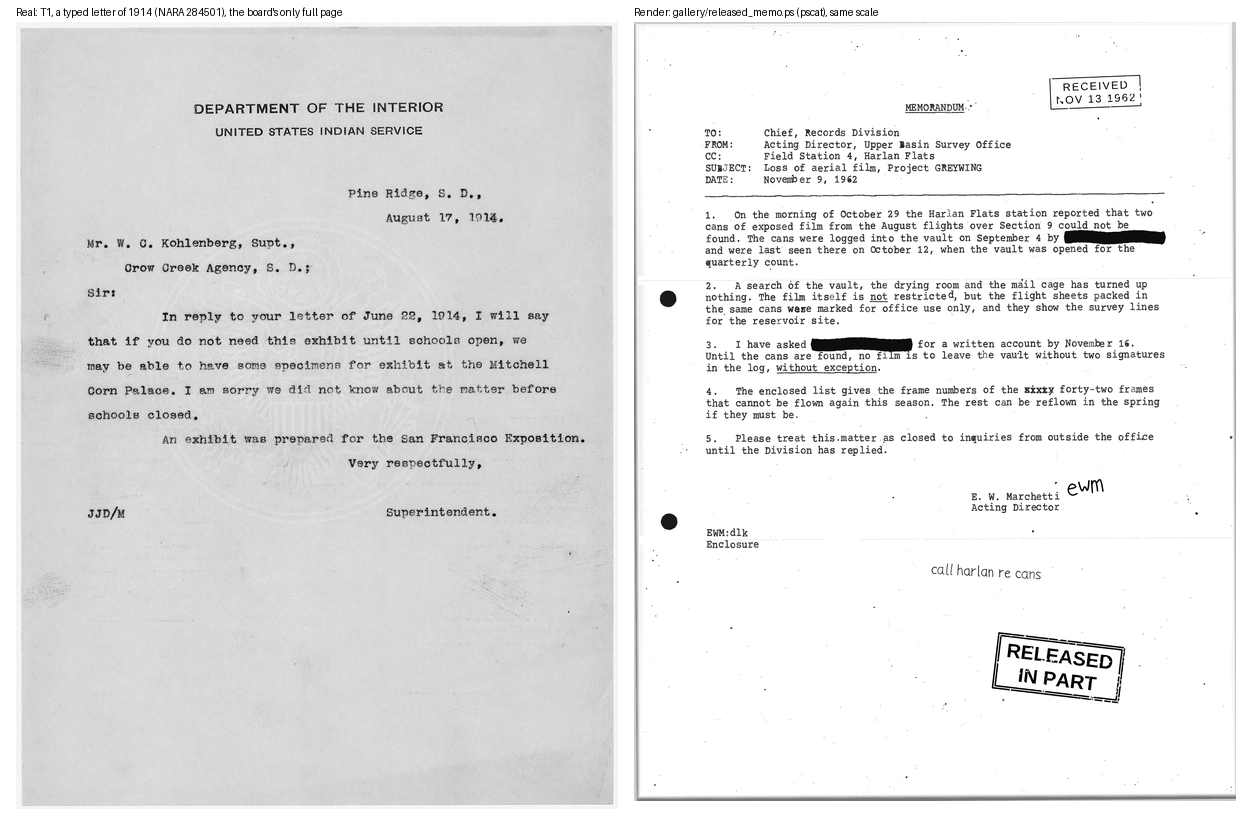
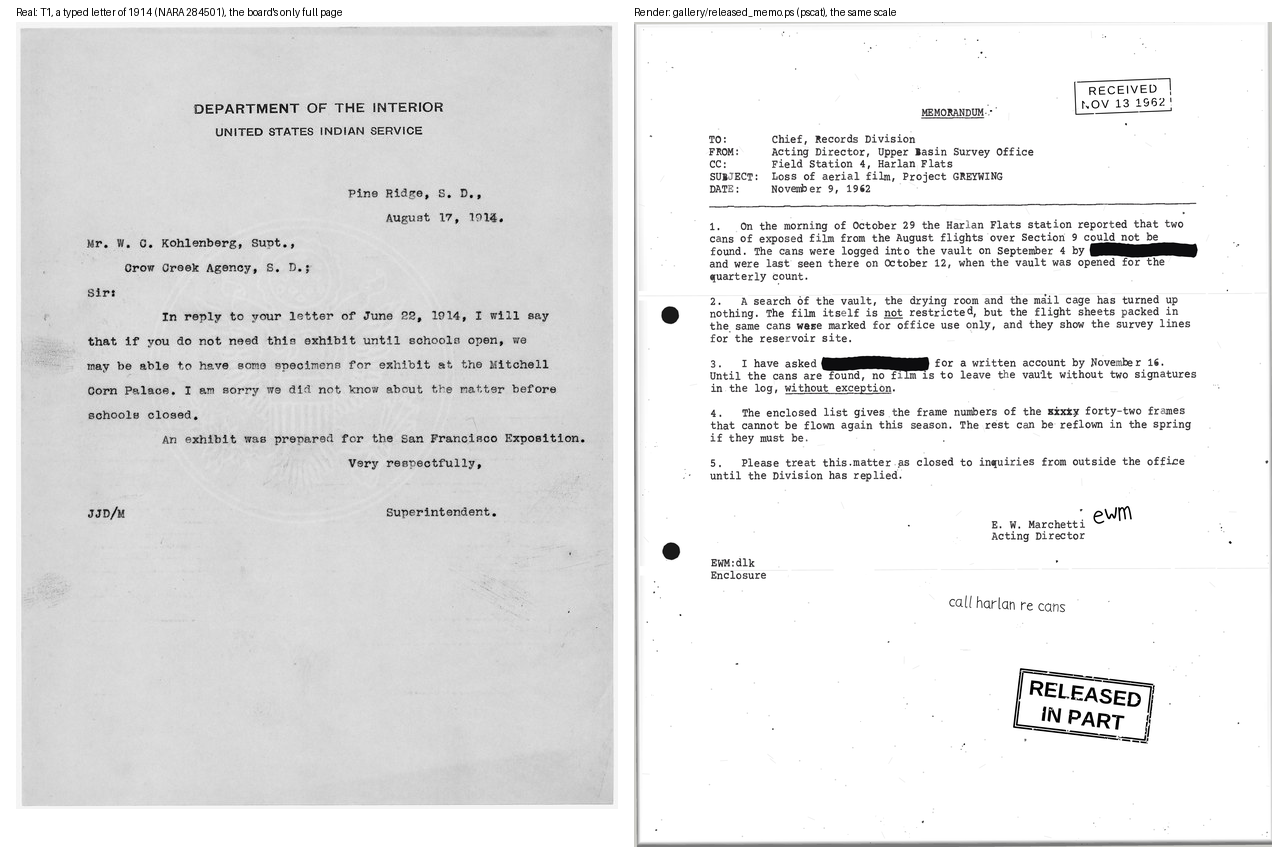
blind grid: one scale and one strip size for every tile, T1 at its own scale (#215)
Claude-Session: https://claude.ai/code/session_01GTbCLDB6QC7UV1i7qukUEL

diff --git a/docs/typewriter/tools/blind_compare.py b/docs/typewriter/tools/blind_compare.py
@@ -5,20 +5,20 @@
 Run from the repo root. It renders gallery/released_memo.ps at 300 dpi with
 pscat and writes two boards:
 
-  docs/typewriter/blind_grid.png    six unlabelled crops, A to F, in a fixed
-                                    shuffled order: four real scans from the
-                                    reference board and two crops of the
-                                    render. Each crop is at its scan's own
-                                    resolution (a render crop takes the pixel
-                                    size and scale of one of the scans), every crop
-                                    is greyscale, and the render's crops go
-                                    through JPEG at quality 85 as the scans
-                                    did. Which letters are the render is
-                                    printed to stdout, not written to the
-                                    repo: the key lives in the pull request.
+  docs/typewriter/blind_grid.png    six unlabelled strips, A to F, in a fixed
+                                    shuffled order: four from real scans on
+                                    the reference board and two from the
+                                    render. Every strip is one typed line at
+                                    one scale, 240 dpi (the Szilard scan's
+                                    own), and one size, 720 x 64 px, all
+                                    greyscale; the render's strips go through
+                                    JPEG at quality 85 as the scans did. Which
+                                    letters are the render is printed to
+                                    stdout, not written to the repo: the key
+                                    lives in the pull request.
   docs/typewriter/memo_vs_real.png  the whole page beside T1, the only full
-                                    typed page on the board, at the same
-                                    physical scale (about 71 dpi).
+                                    typed page on the board, at T1's scale
+                                    (75 dpi: make_board.py's 0.25 of 300).
 
 Needs Pillow and a release pscat (default target/release/pscat). The scans
 are real public-domain documents and are references only; the memo's text,
@@ -39,25 +39,30 @@ ROOT = os.path.abspath(os.path.join(TW, "..", ".."))
 REFS = os.path.join(TW, "refs")
 PIECE = os.path.join(ROOT, "gallery", "released_memo.ps")
 
-DPI = 300
 PAGE = (612, 792)
+DPI = 300                 # the render's resolution
+GRID_DPI = 240            # every strip's scale
+TILE = (720, 64)          # every strip's size, pixels at GRID_DPI
+T1_DPI = 75               # T1 is 0.25 of a 300 dpi scan
 
-# Real scans: (file, dpi). Whole committed crops, as REFERENCES.md has them;
-# the dpi is the crop's own, the scan's times make_board.py's scale (T4 was
-# enlarged 2x from 300 dpi, T9 reduced to 0.6 of 240 dpi, T15 to 0.7 of 300).
+# Real strips: (file, the committed crop's dpi, (left, top) in pixels at
+# GRID_DPI). A crop's dpi is its scan's times make_board.py's scale: T2 is
+# 300 (resampled by 0.8 here), T9 0.6 of 240 = 144 (by 1.67, the one real
+# enlargement of note), T10 1.5 of 240 = 360 (by 0.67), T15 0.7 of 300 = 210
+# (by 1.14). T4 (600 dpi, 380 x 65 px at 240) is too small for a strip.
 REAL = [
-    ("T02_duncan_line.jpg", 300),
-    ("T04_fdr_filled_counters.jpg", 600),
-    ("T09_szilard_block.jpg", 144),
-    ("T15_jfk_release_copy.jpg", 210),
+    ("T02_duncan_line.jpg", 300, (16, 2)),
+    ("T09_szilard_block.jpg", 144, (20, 362)),
+    ("T10_szilard_zoom.jpg", 360, (20, 8)),
+    ("T15_jfk_release_copy.jpg", 210, (140, 222)),
 ]
 
-# Render crops: (left, top) in points from the page's top left, and the scan
-# whose pixel size and dpi the crop takes. Body text only, away from the
-# header (invented names would be a tell either way) and the redaction bars.
+# Render strips: (left, top) in points from the page's top left. Body text
+# only, away from the header (invented names would be a tell either way) and
+# the redaction bars.
 RENDERED = [
-    ((96, 273), "T04_fdr_filled_counters.jpg", 600),
-    ((26, 362), "T09_szilard_block.jpg", 144),
+    (72, 280),
+    (150, 199),
 ]
 
 SHUFFLE_SEED = 215
@@ -81,14 +86,22 @@ def jpeg(im, quality=85):
     return Image.open(buf).convert("L")
 
 
-def render_crop(page, origin, ref, ref_dpi):
-    w, h = Image.open(os.path.join(REFS, ref)).size
+def to_grid(im, dpi):
+    k = GRID_DPI / dpi
+    return im.resize((round(im.width * k), round(im.height * k)), Image.LANCZOS)
+
+
+def real_strip(name, dpi, at):
+    im = to_grid(grey(Image.open(os.path.join(REFS, name))), dpi)
+    return im.crop((at[0], at[1], at[0] + TILE[0], at[1] + TILE[1]))
+
+
+def render_strip(page, origin):
     s = DPI / 72.0
-    k = DPI / ref_dpi                      # render pixels per scan pixel
+    w, h = (t * DPI / GRID_DPI for t in TILE)
     x, y = origin[0] * s, origin[1] * s
-    im = page.crop((round(x), round(y), round(x + w * k), round(y + h * k)))
-    im = im.resize((w, h), Image.LANCZOS)
-    return jpeg(grey(im))
+    im = page.crop((round(x), round(y), round(x + w), round(y + h)))
+    return jpeg(grey(im.resize(TILE, Image.LANCZOS)))
 
 
 def board(tiles, out):
@@ -109,17 +122,17 @@ def board(tiles, out):
 
 def full_page(page, out):
     t1 = Image.open(os.path.join(REFS, "T01_duncan_page_1914.jpg")).convert("RGB")
-    w = t1.width                            # T1 is a whole letter sheet, 8.5 in wide
-    h = round(page.height * w / page.width)
+    w = round(page.width * T1_DPI / DPI)
+    h = round(page.height * T1_DPI / DPI)
     small = page.resize((w, h), Image.LANCZOS)
     font = ImageFont.load_default()
     pad, top = 16, 22
-    b = Image.new("RGB", (2 * w + 3 * pad, max(h, t1.height) + top + pad), (255, 255, 255))
+    b = Image.new("RGB", (t1.width + w + 3 * pad, max(h, t1.height) + top + pad), (255, 255, 255))
     d = ImageDraw.Draw(b)
     d.text((pad, 6), "Real: T1, a typed letter of 1914 (NARA 284501), the board's only full page", fill=(0, 0, 0), font=font)
-    d.text((2 * pad + w, 6), "Render: gallery/released_memo.ps (pscat), same scale", fill=(0, 0, 0), font=font)
+    d.text((2 * pad + t1.width, 6), "Render: gallery/released_memo.ps (pscat), the same scale", fill=(0, 0, 0), font=font)
     b.paste(t1, (pad, top))
-    b.paste(small, (2 * pad + w, top))
+    b.paste(small, (2 * pad + t1.width, top))
     b.save(out)
 
 
@@ -127,9 +140,8 @@ def main():
     pscat = sys.argv[1] if len(sys.argv) > 1 else os.path.join(ROOT, "target", "release", "pscat")
     with tempfile.TemporaryDirectory() as tmp:
         page = render(pscat, tmp)
-    tiles = [(name, grey(Image.open(os.path.join(REFS, name)))) for name, _ in REAL]
-    tiles += [("render at (%d, %d) pt, as %s" % (o[0], o[1], ref), render_crop(page, o, ref, dpi))
-              for o, ref, dpi in RENDERED]
+    tiles = [(name, real_strip(name, dpi, at)) for name, dpi, at in REAL]
+    tiles += [("render at (%d, %d) pt" % o, render_strip(page, o)) for o in RENDERED]
     random.Random(SHUFFLE_SEED).shuffle(tiles)
     letters = "ABCDEFGH"
     board([(letters[i], im) for i, (_, im) in enumerate(tiles)],

diff --git a/notes/215-released-memo.md b/notes/215-released-memo.md
@@ -23,13 +23,17 @@ Epic #209's last ticket. Builds on #211–#214; read
   `typewriter_outlines` and `released` in its library registry (guide:
   `docs/guides/fonts.md`). The READMEs' tables are regenerated.
 - `docs/typewriter/tools/blind_compare.py` writes:
-  - `docs/typewriter/blind_grid.png`: six crops, A to F, in a fixed shuffled
-    order. Four are the board's T2, T4, T9 and T15 as committed, and two come
-    from the render. Each render crop takes the pixel size and the scale of one
-    scan (T4's crop is 600 dpi, as make_board.py enlarged it 2x; T9's is 144
-    dpi), is greyscale, and goes through JPEG at quality 85. The key is printed,
-    not committed: it is in the PR, so the maintainer can judge first.
-  - `docs/typewriter/memo_vs_real.png`: the page beside T1 at the same scale.
+  - `docs/typewriter/blind_grid.png`: six strips, A to F, in a fixed shuffled
+    order: four from real scans (T2, T9, T10 and T15; three documents) and two
+    from the render. Every strip is one typed line at one scale (240 dpi, the
+    Szilard scan's own) and one size (720 x 64 px), greyscale; the render's go
+    through JPEG at quality 85. So no tile can be told apart by size or type
+    scale. The real crops are resampled from their committed scale: T2 by 0.8,
+    T9 by 1.67 (the one real enlargement), T10 by 0.67, T15 by 1.14. T4, at
+    600 dpi, is too small for a strip at 240. The key is printed, not
+    committed: it is in the PR, so the maintainer can judge first.
+  - `docs/typewriter/memo_vs_real.png`: the page beside T1 at T1's scale
+    (75 dpi).
     T1 (a 1914 letter) is the board's only full typed page; it is not a
     released memo, but it is the closest real page in the repo.
 - Docs: a paragraph in `docs/guides/fonts.md` (the released-document section),
@@ -46,8 +50,13 @@ Epic #209's last ticket. Builds on #211–#214; read
   the guide.
 - **Elite, not pica.** Three of the four reference crops are elite; a pica crop
   would stand out by pitch alone.
-- **Crops of body text only.** The header carries invented names; the crops
-  also keep away from the redaction bars, since none of the real tiles has one.
+- **One scale, one size.** A first board gave each render crop the pixel size
+  and scale of one scan (T4's, T9's); that paired each render tile with exactly
+  one real tile and gave the answer away. Every strip now shares a size and a
+  scale.
+- **Crops of body text only.** The header carries invented names; the strips
+  also keep away from the redaction bars, the punch holes and the handwriting,
+  since no real strip has any of them.
 - **The judge is the maintainer.** The agent who built the piece has seen every
   reference, so its reading of the grid is not blind; the PR reports it as an
   assessment only.
@@ -55,18 +64,11 @@ Epic #209's last ticket. Builds on #211–#214; read
   (`-dNOSAFER`, `-g`); the page matches pscat's except for the paper grain (as
   #214 noted) and gs's thinner antialiased strokes at low resolution.
 
-## The comparison, as the author sees it (not blind)
+## The comparison
 
-At scan resolution the type itself holds up: the weave in the ink, the feathered
-edges, uneven strike weight and the occasional clogged counter sit well beside
-T2 and T4. What gives the render away is the page around the type:
-
-- the copied paper is flat white and spotless between the specks, where every
-  real tile (even the bitonal T15) has grain, haze or scanner noise (#466);
-- a punch hole and the handwriting (a clean, print-like hand) appear in the
-  larger crop, and no real tile has either;
-- one strike in the piece lands about 2.5pt high, more than the board's tails
-  (#467).
+The maintainer judges the grid (the issue's success criterion). The author's
+own reading, which is not blind (the author has seen every reference), is in
+the PR under the key, so that nothing in the repo gives the answer away first.
 
 ## Not done (filed, low priority)
 

diff --git a/docs/guides/fonts.md b/docs/guides/fonts.md
@@ -207,7 +207,7 @@ the type `/Copies` equal to `/Generation`, which at 1 already fills most
 counters; set a smaller `/Copies` (0.35 there) in the `tw-type` dict to keep a
 first copy's type open while the page still goes through the copier.
 `docs/typewriter/tools/blind_compare.py` sets crops of it, unlabelled and
-shuffled, among four reference scans (`docs/typewriter/blind_grid.png`), and the
+shuffled, among strips from three reference scans (`docs/typewriter/blind_grid.png`), and the
 whole page beside T1 (`docs/typewriter/memo_vs_real.png`).
 
 ## The font catalog
